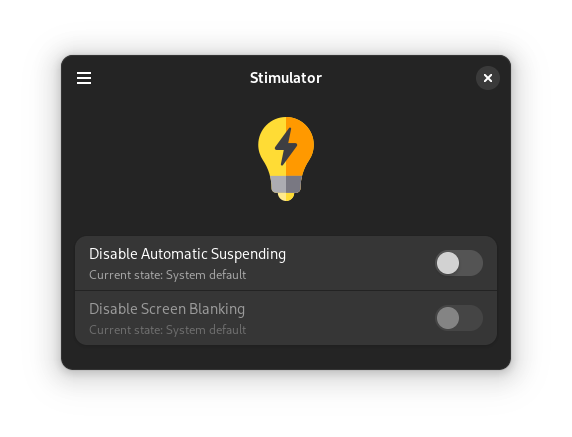
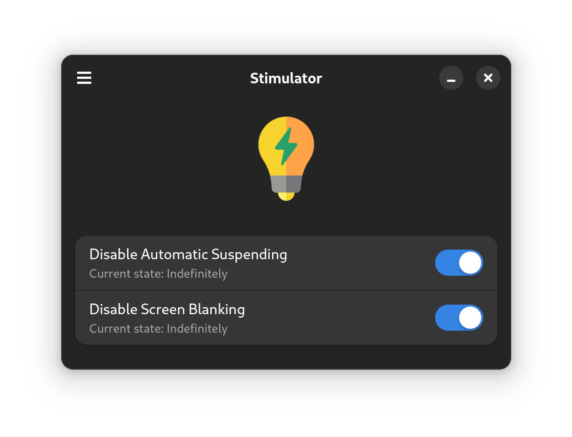
UI and translations updates (#30)

diff --git a/src/main.ts b/src/main.ts
@@ -114,7 +114,7 @@ class MainWindow {
       // if suspend is active, allow setting idle
       if (type === "suspend") {
         this.#mainIcon.set_from_icon_name(
-          APP_ID + "_active",
+          APP_ID,
         );
         this.#idleRow.set_sensitive(true);
       }
@@ -151,7 +151,7 @@ class MainWindow {
 
       if (type === "suspend") {
         this.#mainIcon.set_from_icon_name(
-          APP_ID,
+          APP_ID + "_inactive",
         );
         // if suspend is desactivated, disallow setting idle
         this.#idleRow.set_active(false);

diff --git a/README.md b/README.md
@@ -19,6 +19,6 @@ Uses `Gtk.Application.inhibit` which internally uses
 | Language | Translated (%) |
 | -------- | -------------- |
 | Arabic   | 88.89          |
-| Estonian | 88.89          |
+| Estonian | 100.00         |
 | French   | 88.89          |
 | Italian  | 66.67          |
